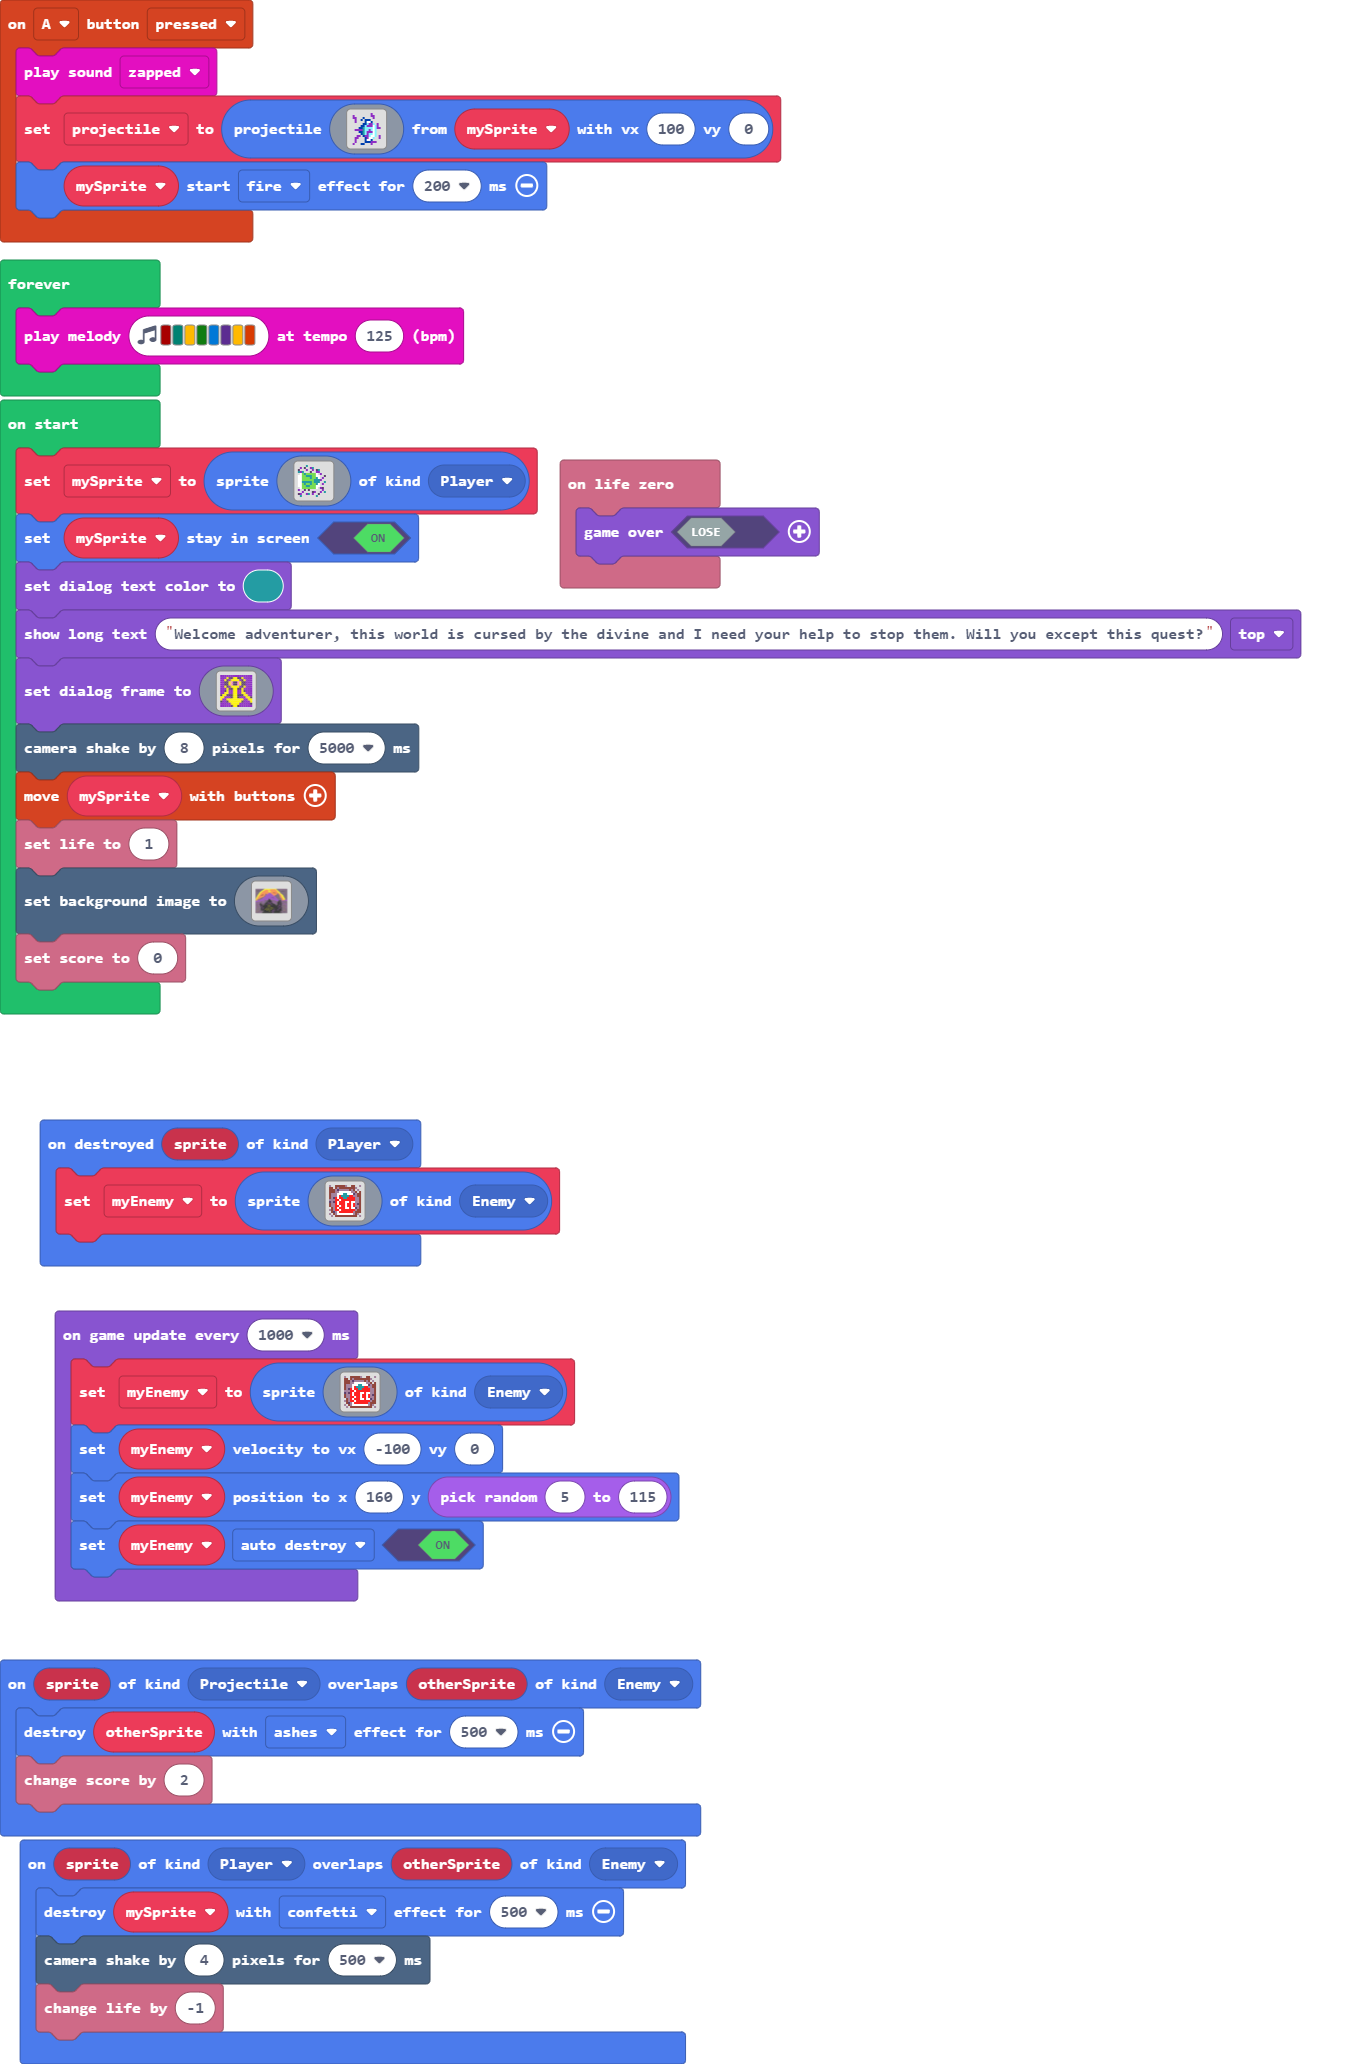
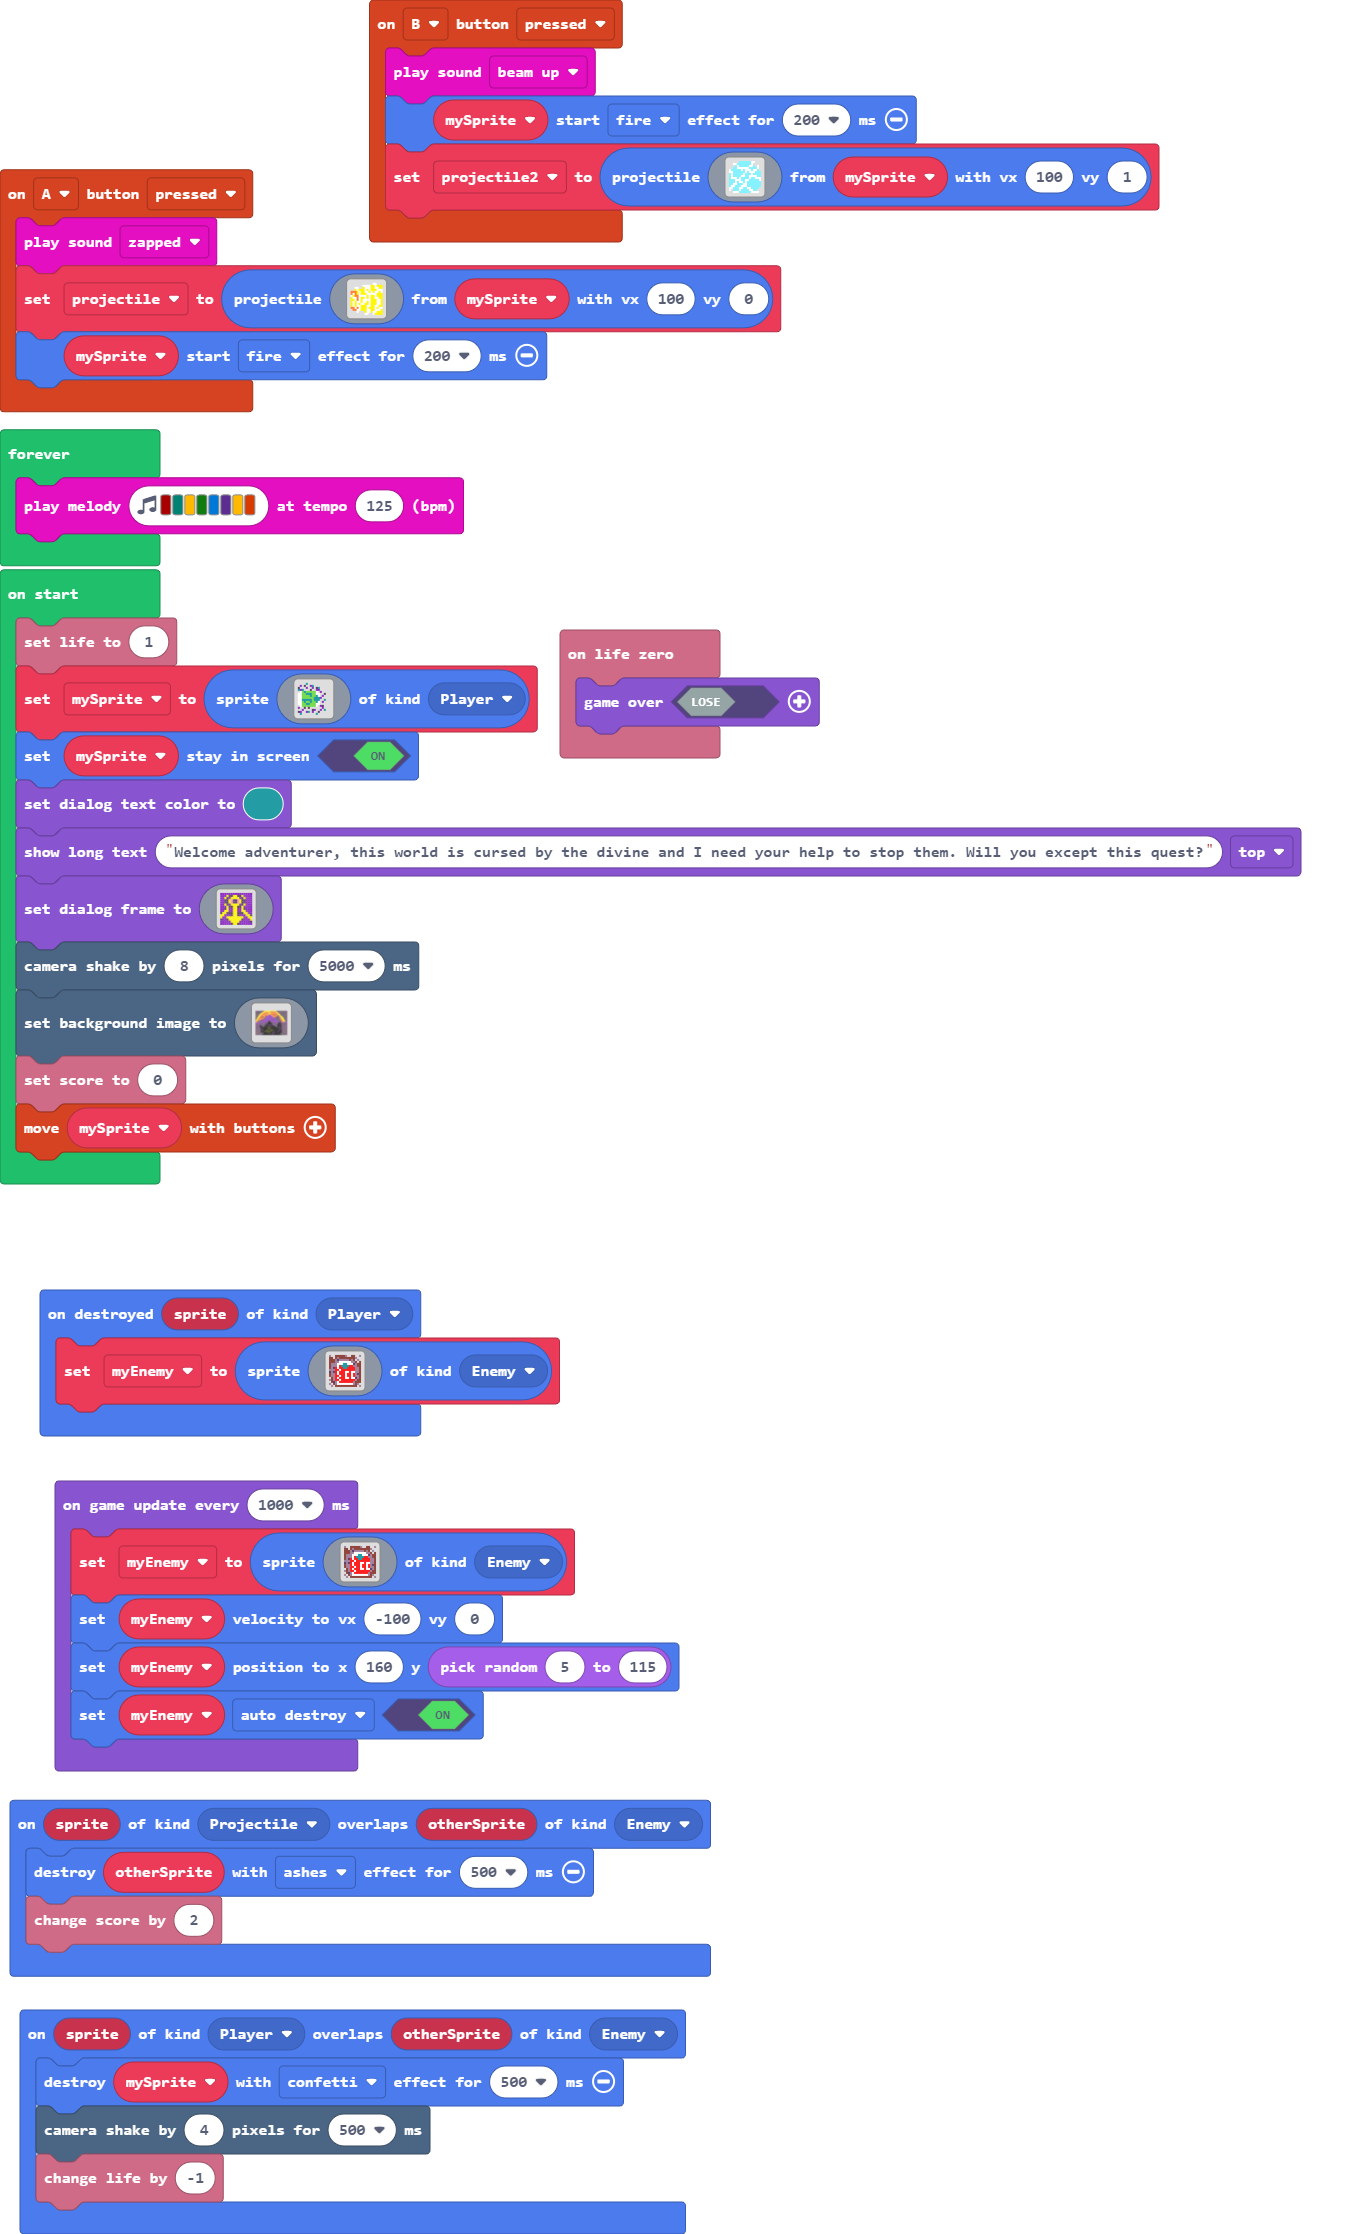
Some attack changes

diff --git a/main.ts b/main.ts
@@ -1,23 +1,11 @@
+controller.B.onEvent(ControllerButtonEvent.Pressed, function () {
+    music.beamUp.play()
+    mySprite.startEffect(effects.fire, 200)
+    projectile2 = sprites.createProjectileFromSprite(assets.image`Big Bang`, mySprite, 100, 1)
+})
 controller.A.onEvent(ControllerButtonEvent.Pressed, function () {
     music.zapped.play()
-    projectile = sprites.createProjectileFromSprite(img`
-        . . . . . . . . . . a . . . . . 
-        . a . . . . . . . . a a . . . . 
-        . a a . . . 8 . . . . a . . . . 
-        . . a . . 8 . 8 8 8 . . . . . . 
-        . . a . . . . 8 1 1 8 . . . . . 
-        . . . . . . 8 8 9 a a 9 . a . . 
-        . . . . . 8 8 9 a a a 1 9 a . . 
-        . . . . 8 8 6 9 9 9 9 1 9 a a . 
-        . . a a a a 6 9 9 a 9 1 9 . . . 
-        . . . . 8 8 6 9 a a a 1 9 . . . 
-        . . . . . 8 6 9 a 9 9 1 9 . . . 
-        . . . a a . 8 a a 9 1 1 9 . a . 
-        . . a a . . . 8 a 1 1 9 . . a . 
-        . . a . . . . 8 1 1 8 . . . . . 
-        . . a . . . . 8 8 8 a a a . . . 
-        . a . . . 8 8 . . . a . . . . . 
-        `, mySprite, 100, 0)
+    projectile = sprites.createProjectileFromSprite(assets.image`Final Flash`, mySprite, 100, 0)
     mySprite.startEffect(effects.fire, 200)
 })
 info.onLifeZero(function () {
@@ -37,7 +25,9 @@ sprites.onOverlap(SpriteKind.Player, SpriteKind.Enemy, function (sprite, otherSp
 })
 let myEnemy: Sprite = null
 let projectile: Sprite = null
+let projectile2: Sprite = null
 let mySprite: Sprite = null
+info.setLife(1)
 mySprite = sprites.create(assets.image`sprite`, SpriteKind.Player)
 mySprite.setStayInScreen(true)
 game.setDialogTextColor(6)
@@ -60,8 +50,6 @@ game.setDialogFrame(img`
     a a a a a c 5 5 c a a a a a a 
     `)
 scene.cameraShake(8, 5000)
-controller.moveSprite(mySprite)
-info.setLife(1)
 scene.setBackgroundImage(img`
[2 lines of base64/hex data omitted]
@@ -185,6 +173,7 @@ scene.setBackgroundImage(img`
     ccccccccccfccccccccccccccccccccccffffffffffffffffffffffffffffffffffffffffffffffffffffaaffffffffffffffffffffffffffffffffffffffffffffffffccccccccccfcccccccccccccc
     `)
 info.setScore(0)
+controller.moveSprite(mySprite)
 game.onUpdateInterval(1000, function () {
     myEnemy = sprites.create(assets.image`coke`, SpriteKind.Enemy)
     myEnemy.setVelocity(-100, 0)

diff --git a/images.g.ts b/images.g.ts
@@ -79,6 +79,44 @@ b e b 2 2 1 2 2 2 2 2 2 2 b e e
 b . e b 1 1 1 1 1 1 1 1 b e b . 
 . b . e e e e e e e e e e e . b 
 `;
+            case "image5":
+            case "Final Flash":return img`
+. . . . . . . . . . . 1 1 . . . 
+. . . . . . 1 1 1 1 5 5 1 5 5 5 
+. . 1 1 . . 5 1 1 1 5 5 1 1 5 5 
+. . 5 1 5 5 5 1 5 1 5 5 5 1 1 1 
+4 4 4 5 1 5 5 1 1 5 1 5 1 1 5 1 
+4 1 4 5 1 5 5 5 1 1 1 1 1 5 5 5 
+1 5 4 4 1 1 1 1 5 1 5 5 1 5 5 5 
+5 1 1 4 1 5 5 1 5 1 5 5 1 1 5 5 
+5 5 1 4 1 5 1 1 1 1 5 5 5 1 1 5 
+5 1 5 1 1 5 1 1 5 1 5 5 5 1 1 5 
+5 1 5 1 5 1 1 5 5 1 5 5 5 1 1 5 
+5 1 5 1 1 5 5 5 1 1 5 5 1 1 5 5 
+4 4 1 4 1 5 5 5 1 5 5 5 1 5 1 1 
+. 4 4 1 1 5 5 5 1 1 5 5 1 1 1 5 
+. . . 1 . . . 5 1 1 5 1 1 5 5 5 
+. . . . . . . 1 1 . . 1 5 5 5 5 
+`;
+            case "image6":
+            case "Big Bang":return img`
+. . . . . 9 9 9 9 9 9 1 1 . . . 
+. . 1 1 9 9 9 9 9 9 9 1 . . . . 
+. . . 9 1 9 9 9 9 9 1 1 9 . 1 . 
+. . 9 9 1 1 1 1 1 1 9 9 9 9 1 . 
+1 9 9 9 9 9 1 9 1 1 1 9 1 1 9 . 
+1 1 9 9 9 9 9 9 1 9 1 1 1 9 9 9 
+9 1 9 9 9 9 9 1 9 9 9 1 9 9 9 9 
+9 1 9 9 9 9 1 1 9 9 1 1 1 1 9 9 
+9 1 1 1 9 1 9 9 9 9 1 9 9 1 1 1 
+9 9 9 1 1 1 9 9 1 1 9 9 9 9 9 1 
+9 9 9 1 9 1 1 9 1 9 9 9 9 9 9 9 
+9 9 1 1 9 9 9 1 1 9 9 9 9 9 9 9 
+9 1 1 9 9 9 1 1 1 9 9 9 9 9 9 9 
+1 1 9 9 9 1 1 9 9 1 1 9 9 9 9 . 
+1 . 9 9 9 1 9 9 9 9 1 1 9 9 . . 
+. . 1 1 1 9 9 9 9 9 9 1 1 1 1 . 
+`;
         }
         return null;
     })
